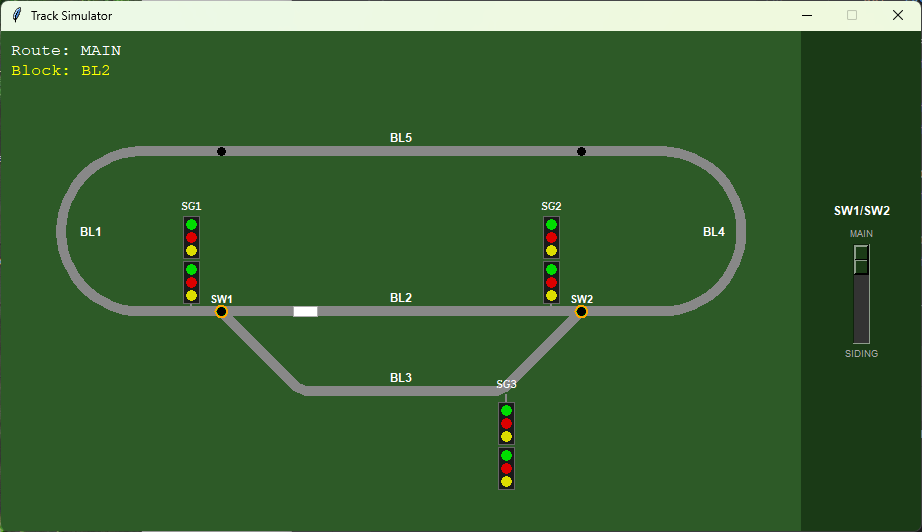
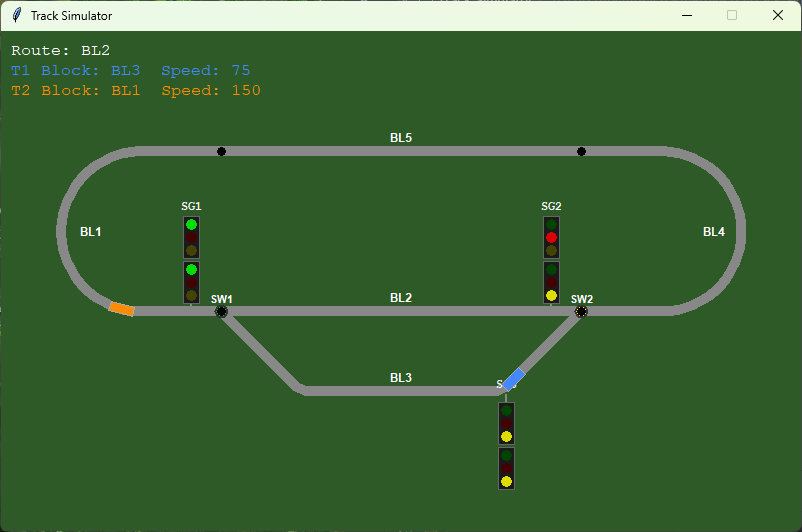
updated documentation

diff --git a/main.py b/main.py
@@ -27,17 +27,11 @@ class App:
         self.root.title("Track Simulator")
         self.root.resizable(False, False)
 
-        main_frame = tk.Frame(self.root, bg=PANEL_COLOR)
-        main_frame.pack()
-
         self.canvas = tk.Canvas(
-            main_frame, width=CANVAS_W, height=CANVAS_H,
+            self.root, width=CANVAS_W, height=CANVAS_H,
             bg=BG_COLOR, highlightthickness=0
         )
-        self.canvas.pack(side="left")
-
-        self._sw1_var = tk.IntVar(value=0)
-        self._create_switch_panel(main_frame)
+        self.canvas.pack()
 
         self.track = Track.build_rounded_rect_with_siding()
         _bl4_seg, _bl4_t0, _bl4_t1 = self.track.block_ranges["BL4"]
@@ -95,45 +89,10 @@ class App:
         self._last_time = time.perf_counter()
         self._loop()
 
-    # ------------------------------------------------------------------
-    # Switch panel
-    # ------------------------------------------------------------------
-
-    def _create_switch_panel(self, parent: tk.Frame) -> None:
-        panel = tk.Frame(parent, bg=PANEL_COLOR, width=120, height=CANVAS_H)
-        panel.pack(side="left", fill="y")
-        panel.pack_propagate(False)
-
-        inner = tk.Frame(panel, bg=PANEL_COLOR)
-        inner.place(relx=0.5, rely=0.5, anchor="center")
-
-        tk.Label(inner, text="SW1/SW2", bg=PANEL_COLOR, fg="white",
-                 font=("Helvetica", 9, "bold")).pack(pady=(0, 4))
-        tk.Label(inner, text="MAIN", bg=PANEL_COLOR, fg="#aaaaaa",
-                 font=("Helvetica", 7)).pack()
-
-        tk.Scale(
-            inner, variable=self._sw1_var, from_=0, to=1,
-            orient="vertical", showvalue=False,
-            bg=PANEL_COLOR, fg="white", troughcolor="#333333",
-            activebackground="#FFA500", highlightthickness=0,
-            resolution=1, length=60,
-            command=lambda _v: self._on_switch(),
-        ).pack()
-
-        tk.Label(inner, text="SIDING", bg=PANEL_COLOR, fg="#aaaaaa",
-                 font=("Helvetica", 7)).pack()
-
-    def _on_switch(self) -> None:
-        """Called when the SW1 slider moves."""
-        route = "siding" if self._sw1_var.get() == 1 else "main"
-        self._set_route(route)
-
     def _set_sw1(self, route: str) -> None:
         """Set SW1 (diverging junction): controls which path trains take from seg0."""
         if route == self.train.route and not self._switch_transition_end:
             return
-        self._sw1_var.set(1 if route == "siding" else 0)
         self.train.route = route
         self.train2.route = route
         self._switch_transition_end = time.perf_counter() + 1.0
@@ -149,11 +108,6 @@ class App:
         self._sw2_transition_end = time.perf_counter() + 1.0
         self.canvas.itemconfig(self._switch_markers[1], fill="#FF0000")
         self._update_signal_switch_indicators()
-
-    def _set_route(self, route: str) -> None:
-        """Set both SW1 and SW2 together (used by manual panel)."""
-        self._set_sw1(route)
-        self._set_sw2(route)
 
     # ------------------------------------------------------------------
     # Track drawing
@@ -445,7 +399,7 @@ class App:
     # ------------------------------------------------------------------
 
     def _route_text(self) -> str:
-        return f"Route: {self.train.route.upper()}"
+        return "Route: BL2" if self.train.route == "main" else "Route: BL3"
 
 
 if __name__ == "__main__":

diff --git a/CLAUDE.md b/CLAUDE.md
@@ -12,7 +12,7 @@ Virtual env: `.venv/` (Python 3.14). No external dependencies — stdlib only (t
 
 | File | Responsibility |
 |---|---|
-| `main.py` | `App` — tkinter root, 800×500 canvas, 60 fps loop via `root.after`, switch/signal/speed logic |
+| `main.py` | `App` — tkinter root, 800×500 canvas, 60 fps loop via `root.after`, switch/signal/speed/automation logic |
 | `track.py` | `Segment` (polyline + arc-length parametric lookup), `Track` (segment graph builder, `block_ranges`) |
 | `train.py` | `Train` — moves along segment graph, selects route at junctions, reports current block |
 | `signals.py` | `Signal` — two-frame, three-light signal drawn on canvas |
@@ -32,10 +32,38 @@ Block ranges on seg0 are computed by `Segment.t_near()` against the top-straight
 ## Block speeds
 
 ```python
-BLOCK_SPEEDS = {"BL1": 150, "BL2": 300, "BL3": 75, "BL4": 150, "BL5": 300}
+BLOCK_SPEEDS = {"BL1": 150, "BL2": 75, "BL3": 75, "BL4": 150, "BL5": 300}
 ```
 
 Speed is applied automatically each frame in `_loop` after `current_block()` is called. There are no manual speed controls.
+
+## Trains
+
+- **T1 (blue)** — starts at centre of BL4
+- **T2 (orange)** — starts at centre of BL1
+- Route label shows `Route: BL2` (SW1 straight) or `Route: BL3` (SW1 diverge)
+
+## Switches
+
+SW1 and SW2 are controlled **independently and automatically** — there is no manual slider.
+
+- **SW1** (diverging junction at sw1): controls which path trains take from seg0. Sets `train.route` / `train2.route`. Transition: 1 s.
+- **SW2** (converging junction at sw2): visual/signal state only — does not affect routing. Transition: 1 s.
+- `_set_sw1(route)` — sets SW1, starts `_switch_transition_end` timer, updates SG1
+- `_set_sw2(route)` — sets `_sw2_state`, starts `_sw2_transition_end` timer, updates SG2/SG3
+
+## Automatic rules (evaluated each frame in `_loop`)
+
+| Trigger | Action |
+|---|---|
+| Orange (T2) enters BL1 | SW1 → straight (BL2 route) |
+| Blue (T1) enters BL1 | SW1 → diverge (BL3 route) |
+| Orange reaches centre of BL2 | Stop 3 s, then SW2 → straight (held longer if blue is in BL4) |
+| Blue reaches centre of BL3 | Stop 3 s, then SW2 → diverge (held longer if orange is in BL4) |
+| BL1 occupied when second train arrives | Trailing train held at BL1 entry; released when BL1 clears |
+| BL4 occupied when second train arrives | Trailing train held at BL4 entry; released when BL4 clears |
+
+**BL4 resume rule:** a train stopped at its timed stop (BL2 or BL3 centre) will not resume as long as the other train occupies BL4.
 
 ## Signals
 
@@ -43,7 +71,9 @@ Three signals: SG1 (left switch, x=190,y=280), SG2 (right switch, x=550,y=280), 
 
 Each signal has two frames (top=frame 0, bottom=frame 1). `_update_signal_switch_indicators()` drives both frames whenever switch state changes or transition ends.
 
-**Bottom head (all signals):** Green=main, Red=transition, Yellow=siding.
+**SG1 reflects SW1; SG2 and SG3 reflect SW2.**
+
+**Bottom head:** Green=straight, Red=transition, Yellow=diverge.
 
 **Top head per signal:**
 
@@ -55,8 +85,9 @@ Each signal has two frames (top=frame 0, bottom=frame 1). `_update_signal_switch
 
 ## Switch transition
 
-- `_switch_transition_end: float` — `perf_counter()` deadline; `0.0` when stable
-- On toggle: set to `now + 2.0`, markers go red, signals go red
+- `_switch_transition_end: float` — SW1 `perf_counter()` deadline; `0.0` when stable
+- `_sw2_transition_end: float` — SW2 `perf_counter()` deadline; `0.0` when stable
+- On change: set to `now + 1.0`, marker goes red, signals go red
 - In `_loop`: when deadline passes, clear to `0.0`, call `_update_switch_markers()` and `_update_signal_switch_indicators()`
 
 ## Key design decisions
@@ -64,8 +95,9 @@ Each signal has two frames (top=frame 0, bottom=frame 1). `_update_signal_switch
 - Polyline segments with cumulative arc-length lookup for accurate `position_at(t)`
 - Train orientation from `angle_at(t)` via 2-point finite difference
 - Train sprite is a rotated polygon (deleted and recreated each frame)
-- Switch choice: `seg0.next[0]` = main (seg1), `seg0.next[1]` = siding (seg2)
+- Switch choice: `seg0.next[0]` = main (seg1/BL2), `seg0.next[1]` = siding (seg2/BL3)
 - `Track.block_ranges` dict declared in `Track.__init__` as `dict[str, tuple[Segment, float, float]]`
+- BL1/BL4 mutual exclusion: trailing train's `t` is clamped to `_bl1_t0` / `_bl4_t0` while held
 
 ## Conventions
 

diff --git a/README.md b/README.md
@@ -15,11 +15,7 @@ A Python/tkinter visual train simulator featuring an oval main loop with a passi
 python main.py
 ```
 
-## Controls
-
-| Control | Action |
-|---|---|
-| SW1/SW2 slider (panel) | Toggle between main route and siding (2-second transition) |
+There are no manual controls — all switch and speed changes are fully automatic.
 
 ## Track Layout
 
@@ -36,35 +32,73 @@ BL1 │                          │ BL4
 
 **Block speeds:**
 
-| Block | Location | Speed |
+| Block | Location | Speed (px/s) |
 |---|---|---|
 | BL1 | Left semicircle | 150 |
-| BL2 | Bottom main straight (SW1 → SW2) | 300 |
+| BL2 | Bottom main straight (SW1 → SW2) | 75 |
 | BL3 | Siding U-shape below bottom straight | 75 |
 | BL4 | Right semicircle | 150 |
 | BL5 | Top straight | 300 |
 
-## Signals
-
-Three two-frame signals are placed at the switch areas. Each signal has a top head (movement aspect) and a bottom head (route/switch aspect).
-
-| Signal | Location | Top head | Bottom head |
-|---|---|---|---|
-| SG1 | Left switch area | Mirrors bottom head | Switch state |
-| SG2 | Right switch area | Green=straight, Red=transition or diverge | Switch state |
-| SG3 | Siding right end (flip) | Red=straight or transition, Yellow=diverge | Switch state |
-
-**Bottom head (all signals):** Green = main route, Red = transition (2 s), Yellow = siding.
-
 ## Trains
 
-Two trains run simultaneously. Train 1 starts near SW2 (BL4); Train 2 starts at the centre of BL5. Speed is set automatically by block. Current block and speed for each train are shown in the top-left of the canvas.
+Two trains run simultaneously:
+
+- **T1 (blue)** — starts at the centre of BL4
+- **T2 (orange)** — starts at the centre of BL1
+
+Current block and speed for each train are shown in the top-left of the canvas.
+
+## Automatic Switch Rules
+
+Switches SW1 and SW2 are controlled independently by automation rules.
+
+**SW1** (diverging junction — controls which route trains take):
+
+| Trigger | Action |
+|---|---|
+| Orange (T2) enters BL1 | SW1 → straight → trains route via BL2 |
+| Blue (T1) enters BL1 | SW1 → diverge → trains route via BL3 |
+
+**SW2** (converging junction — visual/signal indicator):
+
+| Trigger | Action |
+|---|---|
+| Orange stops at centre of BL2 (3 s) | After stop: SW2 → straight |
+| Blue stops at centre of BL3 (3 s) | After stop: SW2 → diverge |
+
+A stopped train will not resume until its 3-second timer has expired **and** the other train has cleared BL4.
+
+## Block Occupancy Rules
+
+- **BL1** — only one train at a time. The trailing train is held at the BL1 entry until the section clears.
+- **BL4** — only one train at a time. The trailing train is held at the BL4 entry until the section clears.
+
+## Signals
+
+Three two-frame signals are placed at the switch areas. Each signal has a top head (movement aspect) and a bottom head (route/switch aspect). Switch transitions take 1 second, during which signals show red.
+
+| Signal | Location | Reflects |
+|---|---|---|
+| SG1 | Left switch area (x=190, y=280) | SW1 state |
+| SG2 | Right switch area (x=550, y=280) | SW2 state |
+| SG3 | Siding right end (x=505, y=363, flipped) | SW2 state |
+
+**Bottom head:** Green = straight, Red = transition, Yellow = diverge.
+
+**Top head mapping:**
+
+| Signal | Green bottom | Red bottom | Yellow bottom |
+|---|---|---|---|
+| SG1 | Green | Red | Yellow |
+| SG2 | Green | Red | Red |
+| SG3 | Red | Red | Yellow |
 
 ## Project Structure
 
 | File | Description |
 |---|---|
-| `main.py` | App entry point — tkinter window, canvas, 60 fps animation loop, signal/switch logic |
+| `main.py` | App entry point — tkinter window, canvas, 60 fps animation loop, automatic switch/signal/speed logic |
 | `track.py` | `Segment` (polyline + parametric position/angle), `Track` builder, `block_ranges` |
 | `train.py` | `Train` — speed, route selection, block detection |
 | `signals.py` | `Signal` — two-frame, three-light railway signal widget |
